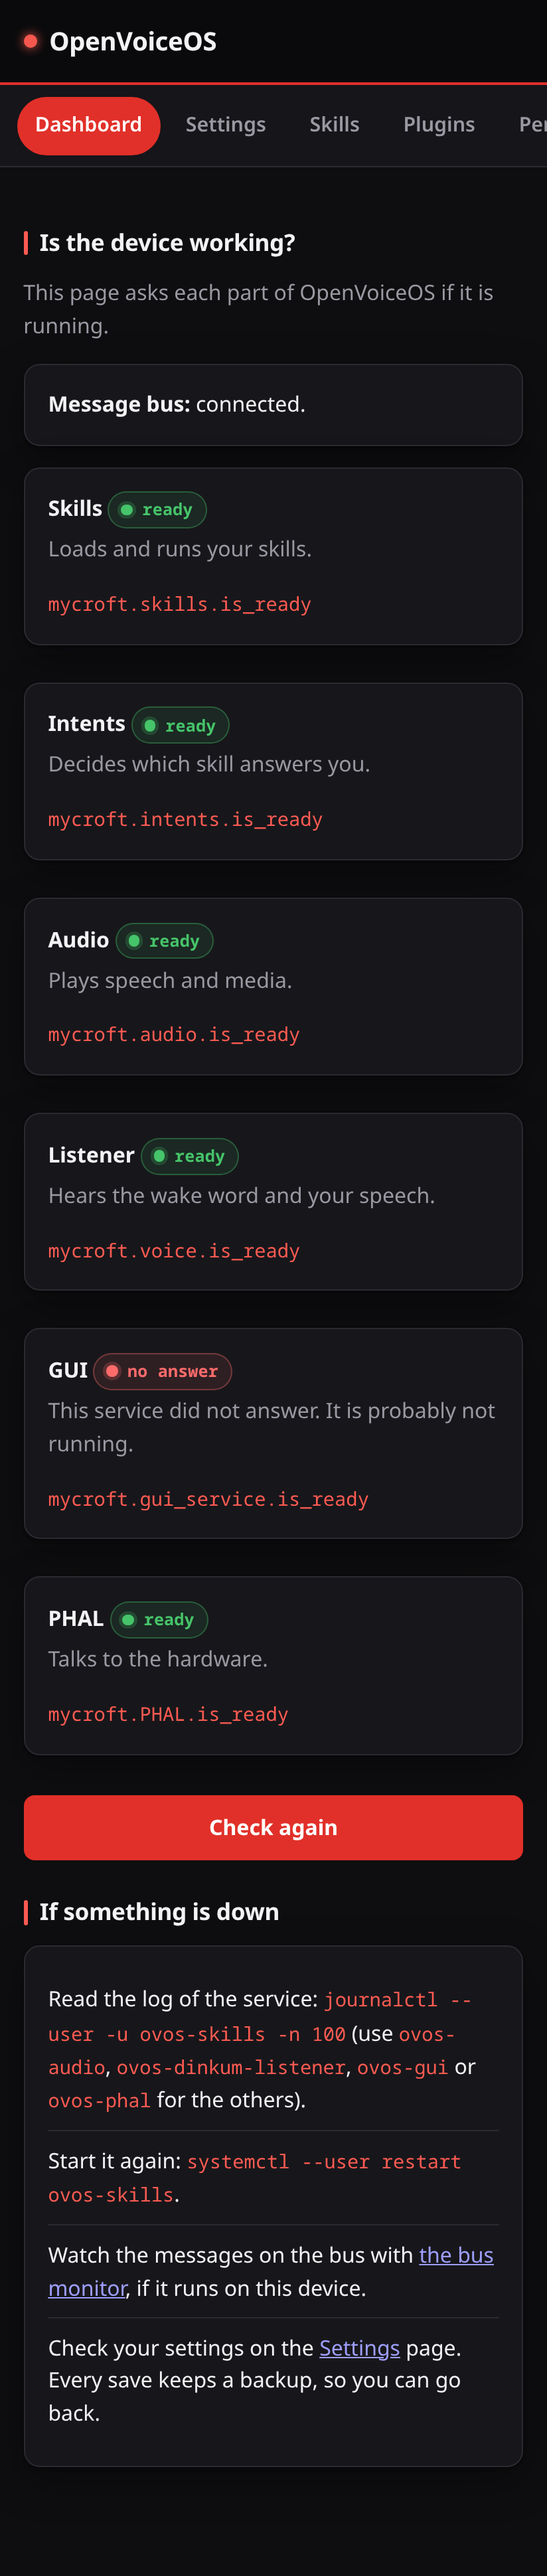
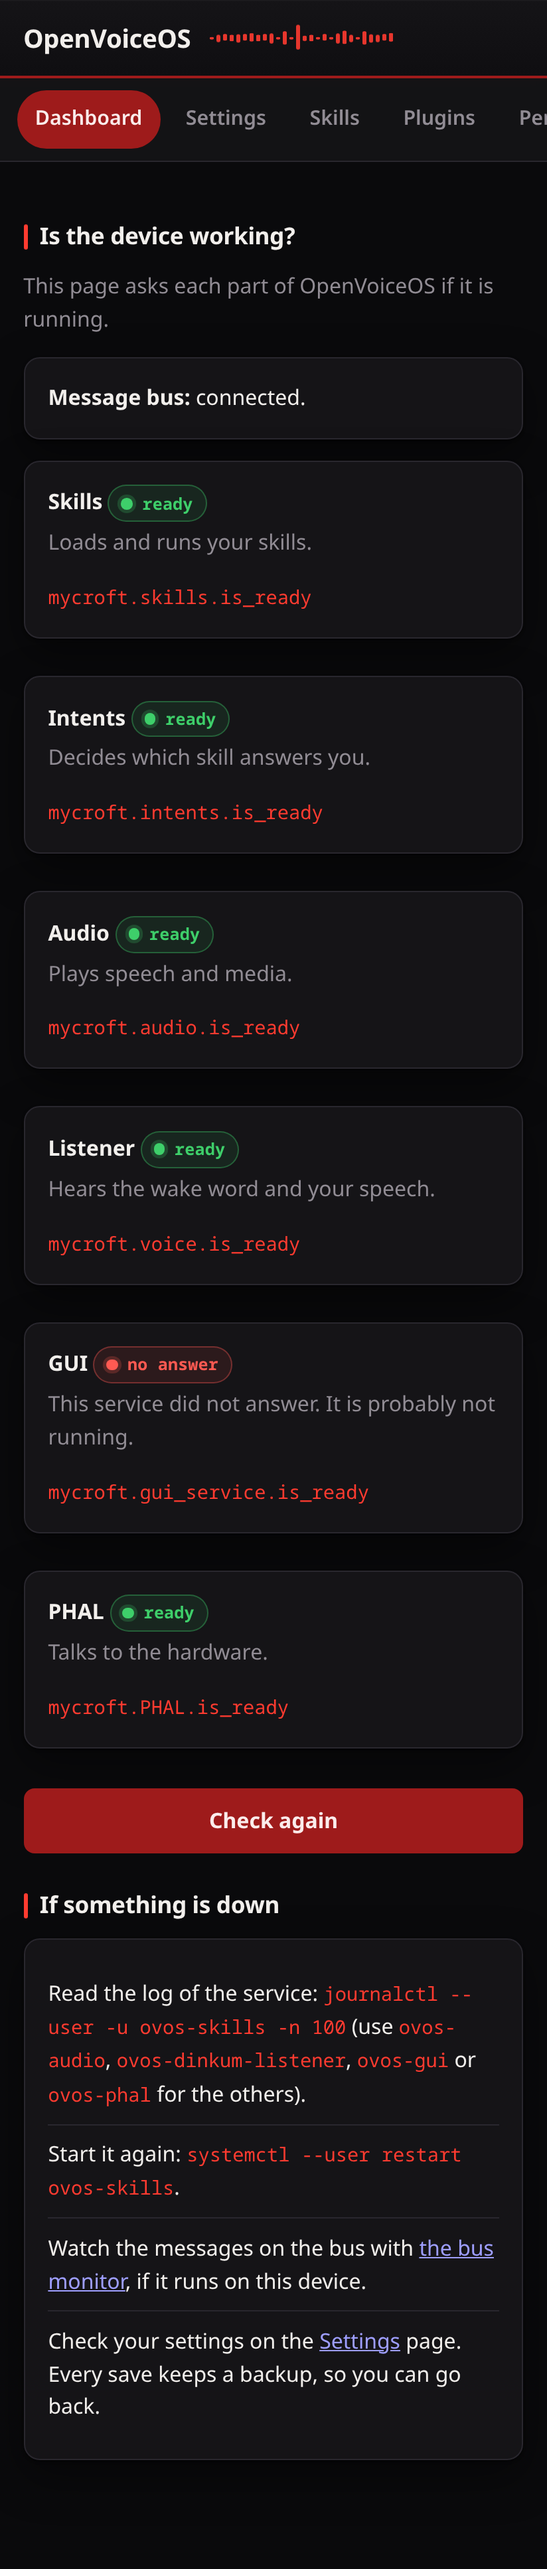
feat: elevate the theme to the OVOS 'signal desk'
Push past the generic near-black-plus-one-accent look into an identity
that is specifically OVOS: sound made visible.

- two reds, not one: a deep oxide red for painted-metal fills and a
  bright signal red kept for the live indicators, over warm anodised
  near-black panels with a faint bevel
- the signature is a live red waveform in the header. On the dashboard
  it flatlines into a silent grey line when the message bus cannot be
  reached, so the header shows the real state of the device
- refresh every docs screenshot to the new look, including the Arabic
  right-to-left dashboard

diff --git a/ovos_webui/static/app.css b/ovos_webui/static/app.css
@@ -1,27 +1,30 @@
 /* ovos-webui — one stylesheet, no external fonts, no CDN.
  *
- * A device-console look: warm near-black surfaces, one confident OVOS red, and
- * status shown as little indicator LEDs. Dark is the home theme; a clean
- * red-on-white light theme follows the browser when asked. */
+ * "The signal desk": the panel of a piece of audio equipment. Warm near-black
+ * anodised surfaces, two reds — a deep oxide red for painted-metal fills and a
+ * bright signal red kept for the live indicators — and a monospace readout
+ * voice. The header carries a live waveform that flatlines when the bus is
+ * down. Dark is home; a warm printed-manual light theme follows the browser. */
 :root {
   color-scheme: light dark;
 
-  /* Light theme — red on warm white. */
-  --bg: #f4f1f1;
-  --bg-soft: #ece7e7;
-  --card: #ffffff;
-  --card-soft: #f7f4f4;
-  --ink: #1a1416;
-  --muted: #6d6167;
-  --line: #e2d9db;
-  --accent: #c81f26;        /* text, borders, focus */
-  --accent-strong: #c81f26; /* solid fills */
-  --accent-hover: #a8161c;
+  /* Light theme — silkscreen red on warm aluminium. */
+  --bg: #efeae6;
+  --bg-soft: #e6e0da;
+  --card: #fbf9f7;
+  --card-soft: #f2eeea;
+  --bevel: rgba(255, 255, 255, 0.6);
+  --ink: #191517;
+  --muted: #6b636a;
+  --line: #ddd4d1;
+  --accent: #d21f26;        /* signal: text, borders, focus, live bits */
+  --accent-strong: #a5161c; /* ember: painted-metal fills */
+  --accent-hover: #8f1319;
   --accent-ink: #ffffff;
-  --accent-wash: rgba(200, 31, 38, 0.08);
+  --accent-wash: rgba(210, 31, 38, 0.09);
   --ok: #1f8a4c;
   --warn: #9a6b00;
-  --bad: #c02626;
+  --bad: #c0242b;
 
   --radius: 12px;
   --radius-sm: 8px;
@@ -31,22 +34,23 @@
 }
 @media (prefers-color-scheme: dark) {
   :root {
-    --bg: #0e0e10;
-    --bg-soft: #0a0a0c;
-    --card: #17171b;
-    --card-soft: #1e1e23;
-    --ink: #f3f2f4;
-    --muted: #9b98a2;
-    --line: #2a2a31;
-    --accent: #ff5b52;
-    --accent-strong: #e13029;
-    --accent-hover: #ff6f66;
-    --accent-ink: #ffffff;
-    --accent-wash: rgba(255, 91, 82, 0.12);
-    --ok: #46c46a;
-    --warn: #e8a33d;
-    --bad: #ff6b6b;
-    --shadow: 0 1px 2px rgba(0, 0, 0, 0.4), 0 10px 30px rgba(0, 0, 0, 0.35);
+    --bg: #0a0a0c;
+    --bg-soft: #0f0e11;
+    --card: #151417;
+    --card-soft: #1c1b1f;
+    --bevel: rgba(255, 255, 255, 0.05);
+    --ink: #f2efec;
+    --muted: #918c94;
+    --line: #29272e;
+    --accent: #ff3b30;        /* signal — bright, live */
+    --accent-strong: #9e1b1b; /* ember — deep oxide fill */
+    --accent-hover: #b52222;
+    --accent-ink: #fbeceb;
+    --accent-wash: rgba(255, 59, 48, 0.13);
+    --ok: #3ecf6a;
+    --warn: #e6a13c;
+    --bad: #ff5a52;
+    --shadow: 0 1px 2px rgba(0, 0, 0, 0.5), 0 12px 34px rgba(0, 0, 0, 0.42);
   }
 }
 
@@ -85,33 +89,60 @@ body {
   -webkit-text-size-adjust: 100%;
 }
 
-/* ── header: near-black bar, a live red signal dot, a red underline ───────── */
+/* ── header: an instrument face — title, a live waveform, a red base rule ──── */
 header {
-  background: var(--bg-soft);
+  background:
+    linear-gradient(var(--bevel), transparent 1px),
+    linear-gradient(180deg, var(--card) 0%, var(--bg-soft) 100%);
   color: var(--ink);
-  padding: 1rem 1.1rem;
+  padding: 0.85rem 1.1rem;
   border-bottom: 2px solid var(--accent-strong);
+  display: flex;
+  align-items: center;
+  gap: 0.9rem;
 }
 header h1 {
   margin: 0;
   font-size: 1.2rem;
-  font-weight: 700;
+  font-weight: 750;
   letter-spacing: -0.01em;
+  flex: 0 0 auto;
+}
+
+/* The signature: a red equalizer that reads as sound made visible. It is
+ * decorative for a screen reader, and on the dashboard it goes flat and dim
+ * when the message bus cannot be reached — the header shows the real state. */
+.wave {
   display: flex;
   align-items: center;
-  gap: 0.6rem;
+  gap: 2px;
+  height: 1.6rem;
+  flex: 1 1 auto;
+  overflow: hidden;
+  opacity: 0.9;
 }
-header h1::before {
-  content: "";
-  width: 0.62rem;
-  height: 0.62rem;
-  border-radius: 50%;
+.wave i {
+  flex: 0 0 3px;
+  height: 22%;
+  border-radius: 2px;
   background: var(--accent);
-  box-shadow: 0 0 0.5rem var(--accent);
-  flex: 0 0 auto;
-  animation: pulse 2.6s ease-in-out infinite;
+  transform-origin: center;
+  animation: bar 1.1s ease-in-out infinite;
 }
-@keyframes pulse { 0%, 100% { opacity: 1; } 50% { opacity: 0.4; } }
+.wave i:nth-child(odd)  { animation-duration: 1.4s; }
+.wave i:nth-child(3n)   { animation-duration: 0.9s; height: 40%; }
+.wave i:nth-child(4n)   { animation-delay: -0.5s; height: 60%; }
+.wave i:nth-child(5n)   { animation-delay: -0.9s; height: 30%; }
+.wave i:nth-child(7n)   { height: 80%; }
+@keyframes bar { 0%, 100% { transform: scaleY(0.3); } 50% { transform: scaleY(1); } }
+
+/* Bus down: the wave falls silent — a dim, flat line. */
+.wave.flat i {
+  animation: none;
+  height: 2px !important;
+  background: var(--muted);
+  transform: none;
+}
 
 /* ── nav: sticky, a scrollable strip of pills, red for the current page ───── */
 nav {

diff --git a/ovos_webui/static/index.html b/ovos_webui/static/index.html
@@ -11,7 +11,8 @@
 <body>
 <a class="skip" href="#main" data-i18n="skip">Skip to content</a>
 <div class="banner" id="banner" role="alert" hidden></div>
-<header><h1>OpenVoiceOS</h1></header>
+<header><h1>OpenVoiceOS</h1>
+  <div class="wave" id="wave" aria-hidden="true"><i></i><i></i><i></i><i></i><i></i><i></i><i></i><i></i><i></i><i></i><i></i><i></i><i></i><i></i><i></i><i></i><i></i><i></i><i></i><i></i><i></i><i></i><i></i><i></i><i></i><i></i><i></i><i></i></div></header>
 <nav aria-label="Site" data-i18n-attr="aria-label:nav.aria">
   <a href="/" data-i18n="nav.dashboard">Dashboard</a>
   <a href="/config" data-i18n="nav.settings">Settings</a>
@@ -58,6 +59,8 @@ OvosWebUI.ready(function () {
   function load() {
     el("bus").textContent = t("dash.checking", "Checking…");
     api("/api/health").then(function (h) {
+      var wave = el("wave");
+      if (wave) { wave.classList.toggle("flat", !h.bus.reachable); }
       el("bus").innerHTML = h.bus.reachable
         ? "<strong>" + esc(t("dash.bus", "Message bus:")) + "</strong> " + esc(t("dash.bus.ok", "connected."))
         : "<strong>" + esc(t("dash.bus", "Message bus:")) + "</strong> " + esc(t("dash.bus.down",

diff --git a/ovos_webui/static/backup.html b/ovos_webui/static/backup.html
@@ -11,7 +11,8 @@
 <body>
 <a class="skip" href="#main" data-i18n="skip">Skip to content</a>
 <div class="banner" id="banner" role="alert" hidden></div>
-<header><h1>Backup and restore</h1></header>
+<header><h1>Backup and restore</h1>
+  <div class="wave" id="wave" aria-hidden="true"><i></i><i></i><i></i><i></i><i></i><i></i><i></i><i></i><i></i><i></i><i></i><i></i><i></i><i></i><i></i><i></i><i></i><i></i><i></i><i></i><i></i><i></i><i></i><i></i><i></i><i></i><i></i><i></i></div></header>
 <nav aria-label="Site" data-i18n-attr="aria-label:nav.aria">
   <a href="/" data-i18n="nav.dashboard">Dashboard</a>
   <a href="/config" data-i18n="nav.settings">Settings</a>

diff --git a/ovos_webui/static/about.html b/ovos_webui/static/about.html
@@ -11,7 +11,8 @@
 <body>
 <a class="skip" href="#main" data-i18n="skip">Skip to content</a>
 <div class="banner" id="banner" role="alert" hidden></div>
-<header><h1>About this device</h1></header>
+<header><h1>About this device</h1>
+  <div class="wave" id="wave" aria-hidden="true"><i></i><i></i><i></i><i></i><i></i><i></i><i></i><i></i><i></i><i></i><i></i><i></i><i></i><i></i><i></i><i></i><i></i><i></i><i></i><i></i><i></i><i></i><i></i><i></i><i></i><i></i><i></i><i></i></div></header>
 <nav aria-label="Site" data-i18n-attr="aria-label:nav.aria">
   <a href="/" data-i18n="nav.dashboard">Dashboard</a>
   <a href="/config" data-i18n="nav.settings">Settings</a>

diff --git a/ovos_webui/static/translate.html b/ovos_webui/static/translate.html
@@ -10,7 +10,8 @@
 <body>
 <a class="skip" href="#main" data-i18n="skip">Skip to content</a>
 <div class="banner" id="banner" role="alert" hidden></div>
-<header><h1>Translate a skill</h1></header>
+<header><h1>Translate a skill</h1>
+  <div class="wave" id="wave" aria-hidden="true"><i></i><i></i><i></i><i></i><i></i><i></i><i></i><i></i><i></i><i></i><i></i><i></i><i></i><i></i><i></i><i></i><i></i><i></i><i></i><i></i><i></i><i></i><i></i><i></i><i></i><i></i><i></i><i></i></div></header>
 <nav aria-label="Site" data-i18n-attr="aria-label:nav.aria">
   <a href="/" data-i18n="nav.dashboard">Dashboard</a>
   <a href="/config" data-i18n="nav.settings">Settings</a>

diff --git a/ovos_webui/static/skills.html b/ovos_webui/static/skills.html
@@ -11,7 +11,8 @@
 <body>
 <a class="skip" href="#main" data-i18n="skip">Skip to content</a>
 <div class="banner" id="banner" role="alert" hidden></div>
-<header><h1>Skill settings</h1></header>
+<header><h1>Skill settings</h1>
+  <div class="wave" id="wave" aria-hidden="true"><i></i><i></i><i></i><i></i><i></i><i></i><i></i><i></i><i></i><i></i><i></i><i></i><i></i><i></i><i></i><i></i><i></i><i></i><i></i><i></i><i></i><i></i><i></i><i></i><i></i><i></i><i></i><i></i></div></header>
 <nav aria-label="Site" data-i18n-attr="aria-label:nav.aria">
   <a href="/" data-i18n="nav.dashboard">Dashboard</a>
   <a href="/config" data-i18n="nav.settings">Settings</a>

diff --git a/ovos_webui/static/config.html b/ovos_webui/static/config.html
@@ -11,7 +11,8 @@
 <body>
 <a class="skip" href="#main" data-i18n="skip">Skip to content</a>
 <div class="banner" id="banner" role="alert" hidden></div>
-<header><h1>Settings</h1></header>
+<header><h1>Settings</h1>
+  <div class="wave" id="wave" aria-hidden="true"><i></i><i></i><i></i><i></i><i></i><i></i><i></i><i></i><i></i><i></i><i></i><i></i><i></i><i></i><i></i><i></i><i></i><i></i><i></i><i></i><i></i><i></i><i></i><i></i><i></i><i></i><i></i><i></i></div></header>
 <nav aria-label="Site" data-i18n-attr="aria-label:nav.aria">
   <a href="/" data-i18n="nav.dashboard">Dashboard</a>
   <a href="/config" data-i18n="nav.settings">Settings</a>

diff --git a/ovos_webui/static/personas.html b/ovos_webui/static/personas.html
@@ -10,7 +10,8 @@
 <body>
 <a class="skip" href="#main" data-i18n="skip">Skip to content</a>
 <div class="banner" id="banner" role="alert" hidden></div>
-<header><h1>Personas</h1></header>
+<header><h1>Personas</h1>
+  <div class="wave" id="wave" aria-hidden="true"><i></i><i></i><i></i><i></i><i></i><i></i><i></i><i></i><i></i><i></i><i></i><i></i><i></i><i></i><i></i><i></i><i></i><i></i><i></i><i></i><i></i><i></i><i></i><i></i><i></i><i></i><i></i><i></i></div></header>
 <nav aria-label="Site" data-i18n-attr="aria-label:nav.aria">
   <a href="/" data-i18n="nav.dashboard">Dashboard</a>
   <a href="/config" data-i18n="nav.settings">Settings</a>

diff --git a/ovos_webui/static/plugins.html b/ovos_webui/static/plugins.html
@@ -10,7 +10,8 @@
 <body>
 <a class="skip" href="#main" data-i18n="skip">Skip to content</a>
 <div class="banner" id="banner" role="alert" hidden></div>
-<header><h1>Plugins</h1></header>
+<header><h1>Plugins</h1>
+  <div class="wave" id="wave" aria-hidden="true"><i></i><i></i><i></i><i></i><i></i><i></i><i></i><i></i><i></i><i></i><i></i><i></i><i></i><i></i><i></i><i></i><i></i><i></i><i></i><i></i><i></i><i></i><i></i><i></i><i></i><i></i><i></i><i></i></div></header>
 <nav aria-label="Site" data-i18n-attr="aria-label:nav.aria">
   <a href="/" data-i18n="nav.dashboard">Dashboard</a>
   <a href="/config" data-i18n="nav.settings">Settings</a>

diff --git a/ovos_webui/static/login.html b/ovos_webui/static/login.html
@@ -8,7 +8,8 @@
 <link rel="stylesheet" href="/static/app.css">
 </head>
 <body>
-<header><h1>OpenVoiceOS</h1></header>
+<header><h1>OpenVoiceOS</h1>
+  <div class="wave" id="wave" aria-hidden="true"><i></i><i></i><i></i><i></i><i></i><i></i><i></i><i></i><i></i><i></i><i></i><i></i><i></i><i></i><i></i><i></i><i></i><i></i><i></i><i></i><i></i><i></i><i></i><i></i><i></i><i></i><i></i><i></i></div></header>
 <main>
   <h2>Sign in</h2>
   <p class="hint">This device asks for a token. It is the value of
